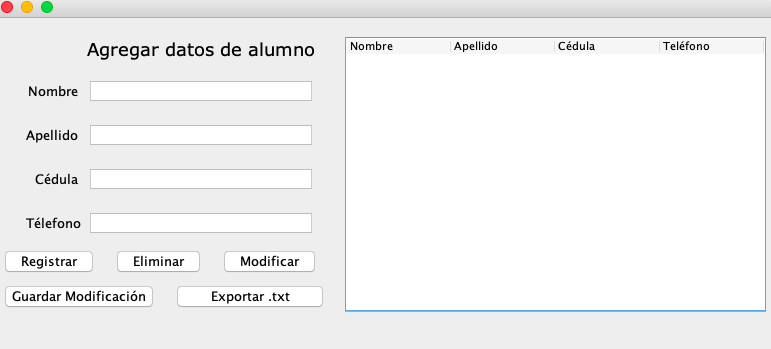
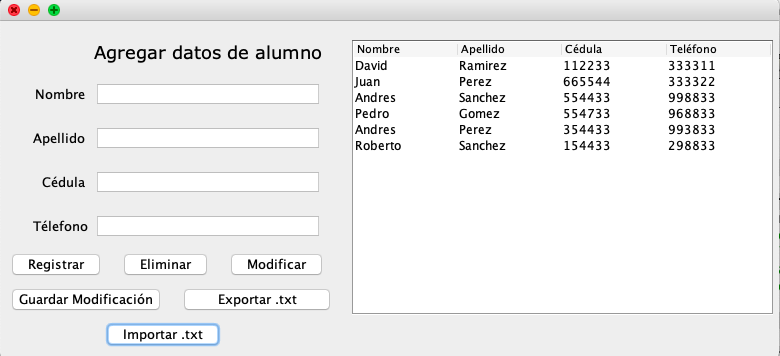
release2: Correcciones de código y nueva función de Importar .txt

diff --git a/Vista.java b/Vista.java
@@ -4,7 +4,7 @@ package graficoarraylist;
 import java.util.ArrayList;
 import java.awt.event.MouseAdapter;
 import java.awt.event.MouseEvent;
-import java.io.FileWriter;
+import java.io.*;
 import javax.swing.table.DefaultTableModel;
 import javax.swing.JOptionPane;
 
@@ -26,8 +26,9 @@ public class Vista extends javax.swing.JFrame {
     String cedula = "";
     String telefono = "";
     
-    //definir ArrayList que se usará en el proyecto
+   
     ArrayList<Alumno> lista = new ArrayList<>();
+
        
     public Vista() {
         initComponents();
@@ -36,7 +37,8 @@ public class Vista extends javax.swing.JFrame {
         
         jTableAlumno.addMouseListener(new MouseAdapter(){
         DefaultTableModel model = new DefaultTableModel();
-        
+        //DefaultTableModel model = (DefaultTableModel) jTableAlumno.getModel();
+       
         public void mouseClicked(MouseEvent e){
         int i = jTableAlumno.getSelectedRow();
         nombre = (jTableAlumno.getValueAt(i, 0).toString());
@@ -72,6 +74,7 @@ public class Vista extends javax.swing.JFrame {
         BtnModificar = new javax.swing.JButton();
         BtnGuardaModificacion = new javax.swing.JButton();
         BtnGeneraTxt = new javax.swing.JButton();
+        BtnImportaTxt = new javax.swing.JButton();
 
         setDefaultCloseOperation(javax.swing.WindowConstants.EXIT_ON_CLOSE);
 
@@ -146,6 +149,13 @@ public class Vista extends javax.swing.JFrame {
             }
         });
 
+        BtnImportaTxt.setText("Importar .txt");
+        BtnImportaTxt.addActionListener(new java.awt.event.ActionListener() {
+            public void actionPerformed(java.awt.event.ActionEvent evt) {
+                BtnImportaTxtActionPerformed(evt);
+            }
+        });
+
         javax.swing.GroupLayout layout = new javax.swing.GroupLayout(getContentPane());
         getContentPane().setLayout(layout);
         layout.setHorizontalGroup(
@@ -153,35 +163,40 @@ public class Vista extends javax.swing.JFrame {
             .addGroup(layout.createSequentialGroup()
                 .addGroup(layout.createParallelGroup(javax.swing.GroupLayout.Alignment.LEADING)
                     .addGroup(layout.createSequentialGroup()
-                        .addGap(33, 33, 33)
                         .addGroup(layout.createParallelGroup(javax.swing.GroupLayout.Alignment.LEADING)
-                            .addGroup(layout.createParallelGroup(javax.swing.GroupLayout.Alignment.TRAILING)
-                                .addComponent(jLabel4)
-                                .addComponent(jLabel3)
-                                .addComponent(jLabel2))
-                            .addComponent(jLabel5))
-                        .addPreferredGap(javax.swing.LayoutStyle.ComponentPlacement.RELATED)
-                        .addGroup(layout.createParallelGroup(javax.swing.GroupLayout.Alignment.LEADING, false)
-                            .addComponent(jLabel1)
-                            .addComponent(txtNombre)
-                            .addComponent(txtApellido)
-                            .addComponent(txtCedula)
-                            .addComponent(txtTelefono, javax.swing.GroupLayout.PREFERRED_SIZE, 228, javax.swing.GroupLayout.PREFERRED_SIZE)))
+                            .addGroup(layout.createSequentialGroup()
+                                .addGap(33, 33, 33)
+                                .addGroup(layout.createParallelGroup(javax.swing.GroupLayout.Alignment.LEADING)
+                                    .addGroup(layout.createParallelGroup(javax.swing.GroupLayout.Alignment.TRAILING)
+                                        .addComponent(jLabel4)
+                                        .addComponent(jLabel3)
+                                        .addComponent(jLabel2))
+                                    .addComponent(jLabel5))
+                                .addPreferredGap(javax.swing.LayoutStyle.ComponentPlacement.RELATED)
+                                .addGroup(layout.createParallelGroup(javax.swing.GroupLayout.Alignment.LEADING, false)
+                                    .addComponent(jLabel1)
+                                    .addComponent(txtNombre)
+                                    .addComponent(txtApellido)
+                                    .addComponent(txtCedula)
+                                    .addComponent(txtTelefono, javax.swing.GroupLayout.PREFERRED_SIZE, 228, javax.swing.GroupLayout.PREFERRED_SIZE)))
+                            .addGroup(layout.createSequentialGroup()
+                                .addContainerGap()
+                                .addGroup(layout.createParallelGroup(javax.swing.GroupLayout.Alignment.LEADING)
+                                    .addGroup(layout.createSequentialGroup()
+                                        .addComponent(BtnRegistrar)
+                                        .addPreferredGap(javax.swing.LayoutStyle.ComponentPlacement.UNRELATED)
+                                        .addComponent(BtnEliminar)
+                                        .addGap(12, 12, 12)
+                                        .addComponent(BtnModificar))
+                                    .addGroup(layout.createSequentialGroup()
+                                        .addComponent(BtnGuardaModificacion, javax.swing.GroupLayout.PREFERRED_SIZE, 160, javax.swing.GroupLayout.PREFERRED_SIZE)
+                                        .addPreferredGap(javax.swing.LayoutStyle.ComponentPlacement.UNRELATED)
+                                        .addComponent(BtnGeneraTxt, javax.swing.GroupLayout.PREFERRED_SIZE, 158, javax.swing.GroupLayout.PREFERRED_SIZE)))))
+                        .addGap(16, 16, 16)
+                        .addComponent(jScrollPane1, javax.swing.GroupLayout.PREFERRED_SIZE, 421, javax.swing.GroupLayout.PREFERRED_SIZE))
                     .addGroup(layout.createSequentialGroup()
-                        .addContainerGap()
-                        .addGroup(layout.createParallelGroup(javax.swing.GroupLayout.Alignment.LEADING)
-                            .addGroup(layout.createSequentialGroup()
-                                .addComponent(BtnRegistrar)
-                                .addPreferredGap(javax.swing.LayoutStyle.ComponentPlacement.UNRELATED)
-                                .addComponent(BtnEliminar)
-                                .addGap(12, 12, 12)
-                                .addComponent(BtnModificar))
-                            .addGroup(layout.createSequentialGroup()
-                                .addComponent(BtnGuardaModificacion, javax.swing.GroupLayout.PREFERRED_SIZE, 160, javax.swing.GroupLayout.PREFERRED_SIZE)
-                                .addPreferredGap(javax.swing.LayoutStyle.ComponentPlacement.UNRELATED)
-                                .addComponent(BtnGeneraTxt, javax.swing.GroupLayout.PREFERRED_SIZE, 158, javax.swing.GroupLayout.PREFERRED_SIZE)))))
-                .addGap(16, 16, 16)
-                .addComponent(jScrollPane1, javax.swing.GroupLayout.PREFERRED_SIZE, 421, javax.swing.GroupLayout.PREFERRED_SIZE)
+                        .addGap(101, 101, 101)
+                        .addComponent(BtnImportaTxt)))
                 .addContainerGap(javax.swing.GroupLayout.DEFAULT_SIZE, Short.MAX_VALUE))
         );
         layout.setVerticalGroup(
@@ -217,32 +232,13 @@ public class Vista extends javax.swing.JFrame {
                             .addComponent(BtnGuardaModificacion)
                             .addComponent(BtnGeneraTxt)))
                     .addComponent(jScrollPane1, javax.swing.GroupLayout.PREFERRED_SIZE, 0, Short.MAX_VALUE))
-                .addContainerGap(43, Short.MAX_VALUE))
+                .addPreferredGap(javax.swing.LayoutStyle.ComponentPlacement.RELATED)
+                .addComponent(BtnImportaTxt)
+                .addContainerGap(8, Short.MAX_VALUE))
         );
 
         pack();
     }// </editor-fold>//GEN-END:initComponents
-
-    private void txtNombreActionPerformed(java.awt.event.ActionEvent evt) {//GEN-FIRST:event_txtNombreActionPerformed
-        // TODO add your handling code here:
-    }//GEN-LAST:event_txtNombreActionPerformed
-
-    private void BtnRegistrarActionPerformed(java.awt.event.ActionEvent evt) {//GEN-FIRST:event_BtnRegistrarActionPerformed
-
-        //inicializamos el objeto y en el constructor, las 4 variables con las funciones
-        //para traer los datos de los textfields.
-        Alumno alumno = new Alumno(txtNombre.getText(),txtApellido.getText(),txtCedula.getText(),txtTelefono.getText());
-        //añado el registro a mi lista por medio del método add
-        lista.add(alumno);
-        //llamo a función para imprimir los datos de los textFields en la tabla:
-        mostrar();
-        //funciones para borrar textos residuales en textFields
-        txtNombre.setText("");
-        txtApellido.setText("");
-        txtCedula.setText("");
-        txtTelefono.setText("");
-        
-    }//GEN-LAST:event_BtnRegistrarActionPerformed
 
     //función para imprimir los datos de los textFields en la tabla:
     public void mostrar()
@@ -270,7 +266,29 @@ public class Vista extends javax.swing.JFrame {
     }
     
     
-    
+    private void txtNombreActionPerformed(java.awt.event.ActionEvent evt) {//GEN-FIRST:event_txtNombreActionPerformed
+        // TODO add your handling code here:
+    }//GEN-LAST:event_txtNombreActionPerformed
+
+
+    private void BtnRegistrarActionPerformed(java.awt.event.ActionEvent evt) {//GEN-FIRST:event_BtnRegistrarActionPerformed
+
+        //inicializamos el objeto y en el constructor, las 4 variables con las funciones
+        //para traer los datos de los textfields.
+        Alumno alumno = new Alumno(txtNombre.getText(),txtApellido.getText(),txtCedula.getText(),txtTelefono.getText());
+        //añado el registro a mi lista por medio del método add
+        lista.add(alumno);
+        //llamo a función para imprimir los datos de los textFields en la tabla:
+        mostrar();
+        //funciones para borrar textos residuales en textFields
+        txtNombre.setText("");
+        txtApellido.setText("");
+        txtCedula.setText("");
+        txtTelefono.setText("");
+        
+    }//GEN-LAST:event_BtnRegistrarActionPerformed
+
+
     private void txtTelefonoActionPerformed(java.awt.event.ActionEvent evt) {//GEN-FIRST:event_txtTelefonoActionPerformed
         // TODO add your handling code here:
     }//GEN-LAST:event_txtTelefonoActionPerformed
@@ -283,7 +301,6 @@ public class Vista extends javax.swing.JFrame {
         lista.remove(i);
         }
         }
-        
         //invoco función mostrar() para actualizar la tabla:
         mostrar();
         
@@ -323,33 +340,68 @@ public class Vista extends javax.swing.JFrame {
         
                
 try{
-        FileWriter pw = new FileWriter("archivocreado5.txt"); //nombre del archivo
+        FileWriter pw = new FileWriter("archivocreado.txt"); //nombre del archivo
         
-// Bucle For para recorrer la lista:
+    // Bucle For para recorrer la lista:
         for (int i = 0; i < lista.size(); i++) {
-            if(cedula.equals(lista.get(i).getCedula())){      // cedula será el id único
-                
-                pw.write(lista.get(i).getNombre()+",");
-                
-                pw.write(lista.get(i).getApellido()+",");
-                
-                pw.write(lista.get(i).getCedula()+",");
-                
-                pw.write(lista.get(i).getTelefono());
-                
-        }     
-    }                                                     
-    pw.close();
-    JOptionPane.showMessageDialog(null, "Archivo Creado");
-}catch(Exception err){
-        System.out.println(err);    
-    } 
 
-       mostrar();
+                pw.write(lista.get(i).getNombre()+",");
+                pw.write(lista.get(i).getApellido()+",");
+                pw.write(lista.get(i).getCedula()+","); 
+                pw.write(lista.get(i).getTelefono()+"\n");
+      
+        }                                                     
+        pw.close();
+        JOptionPane.showMessageDialog(null, "Archivo Creado");
+        }catch(Exception err){
+            System.out.println(err);    
+            } 
+    
+    mostrar();
         
     }//GEN-LAST:event_BtnGeneraTxtActionPerformed
-      
 
+    private void BtnImportaTxtActionPerformed(java.awt.event.ActionEvent evt) {//GEN-FIRST:event_BtnImportaTxtActionPerformed
+     
+       //Nombre y ruta del archivo a importar
+       String filePath ="archivocreado5.txt";
+       File file = new File(filePath); 
+
+       try{
+           BufferedReader buffer = new BufferedReader (new FileReader(file));
+       
+           Object[] filasTxt = buffer.lines().toArray();
+           //System.out.println("cant de registros: " + filasTxt.length);
+       
+           String matriz[][]=new String[filasTxt.length][4];
+           
+           //for para hacer el split y recorrer el la matriz del jTableAlumno según la cant. de filas del .txt  
+           for (int x = 0; x < filasTxt.length; x++){
+       
+           String fila = filasTxt[x].toString().trim();
+           String[] campo = fila.split(",");
+                     
+           matriz[x][0]= campo[0];                      
+           matriz[x][1]= campo[1];                      
+           matriz[x][2]= campo[2];                   
+           matriz[x][3]= campo[3];
+                     
+           }
+        
+        jTableAlumno.setModel(new javax.swing.table.DefaultTableModel(
+            matriz,
+            new String [] {
+                "Nombre", "Apellido", "Cédula", "Teléfono"
+            }
+        ));        
+
+       }catch (Exception err){
+       System.out.println(err);  
+       }
+
+    }//GEN-LAST:event_BtnImportaTxtActionPerformed
+
+ 
     /**
      * @param args the command line arguments
      */
@@ -389,6 +441,7 @@ try{
     private javax.swing.JButton BtnEliminar;
     private javax.swing.JButton BtnGeneraTxt;
     private javax.swing.JButton BtnGuardaModificacion;
+    private javax.swing.JButton BtnImportaTxt;
     private javax.swing.JButton BtnModificar;
     private javax.swing.JButton BtnRegistrar;
     private javax.swing.JLabel jLabel1;
